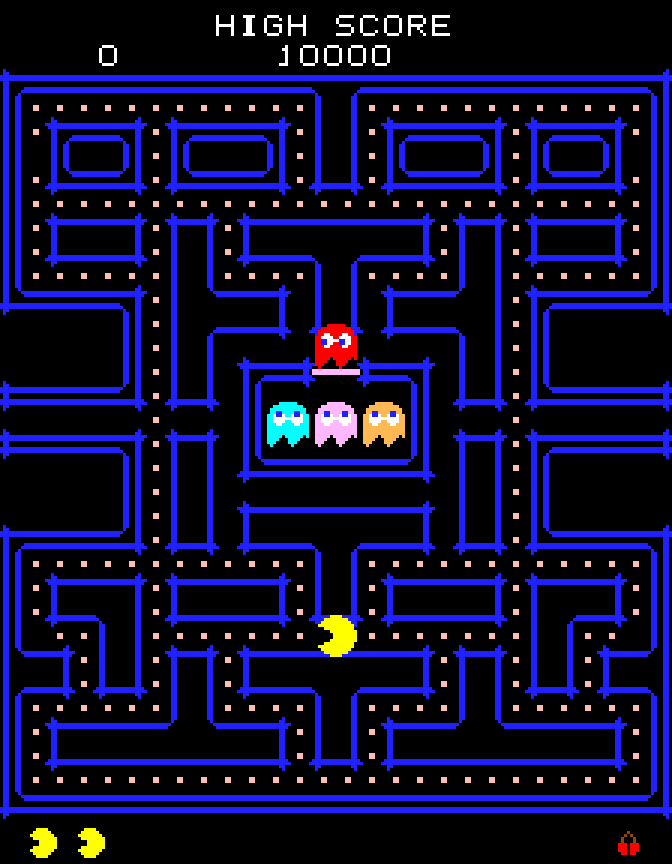
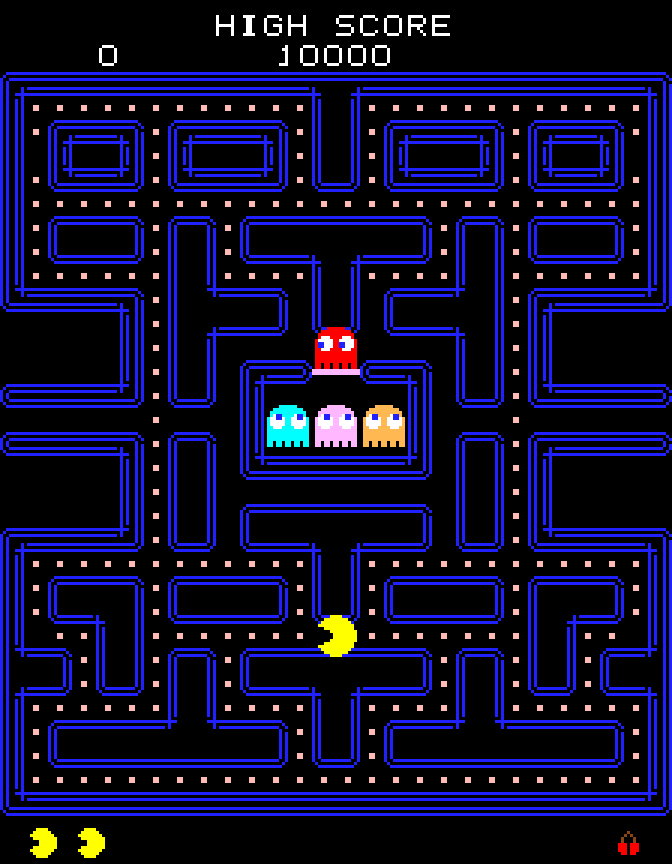
Polish arcade fidelity: rounded double-line walls, bitmap ghost sprites
- Walls: two parallel 1px outlines per boundary (outer radius 3px, inner
  1.5px) with true quarter-circle fillets at every corner, tangent-trimmed
  straight runs and bridged concave corners
- Ghosts: hand-designed 14x14 pixel bitmaps with two-frame skirt wave
  animation, 5x5 oval eyes with directional 2x2 pupils, frightened
  square-eyes + zigzag mouth mode, eyes-only eaten mode
- Update README gameplay screenshot

Changed region(s): [[0.0, 0.0625, 1.0, 0.9688]]

diff --git a/src/render.rs b/src/render.rs
@@ -139,17 +139,23 @@ async fn game_loop(mut game: Game) {
 // ---------------------------------------------------------------------------
 
 struct MazeShape {
-    /// Straight outline runs (already offset into the wall by WALL_OFF).
+    /// Straight outline runs (already offset into the wall; two parallel
+    /// lines per boundary — the classic double-line outline).
     lines: Vec<[Vec2; 2]>,
     /// Rounded corners: (center, radius, start angle, sweep angle).
     arcs: Vec<(Vec2, f32, f32, f32)>,
     door_segs: Vec<Rect>,
 }
 
-/// Offset of the outline centerline from the wall-region boundary, in pixels.
-const WALL_OFF: f32 = 2.0;
-/// Outline stroke thickness.
-const WALL_LINE_W: f32 = 2.0;
+/// Outline stroke thickness (each of the two parallel lines is 1 px wide).
+const WALL_LINE_W: f32 = 1.0;
+
+/// The classic double-line outline: for each wall boundary we draw two
+/// parallel 1 px lines. Each entry is `(centerline offset from the
+/// wall-region boundary in px, corner fillet radius in px)` — the outer
+/// line gets the big, clearly visible quarter-circle corners, the inner
+/// line a smaller one, exactly like the arcade maze.
+const WALL_OUTLINES: [(f32, f32); 2] = [(0.5, 3.0), (2.5, 1.5)];
 
 /// Traces the boundaries of all wall regions and converts them into
 /// continuous rounded outlines (the classic double-line arcade look: every
@@ -158,8 +164,10 @@ const WALL_LINE_W: f32 = 2.0;
 ///
 /// Method: collect the directed boundary edges between wall and non-wall
 /// tiles (oriented so the wall region is always on the left of travel),
-/// chain them into closed loops, then render each loop as an offset polyline
-/// with circular-arc fillets at every 90-degree turn. Diagonally adjacent
+/// chain them into closed loops, then render each loop twice (once per
+/// outline line) as an offset polyline with circular-arc fillets at every
+/// 90-degree turn — convex corners get a true quarter-circle fillet, so
+/// every wall corner reads as rounded like the arcade. Diagonally adjacent
 /// wall tiles share a pinch vertex and their outlines connect smoothly.
 fn build_maze_shape(grid: &[Tile; MAZE_W * MAZE_H]) -> MazeShape {
     let is_wall = |tx: i32, ty: i32| -> bool {
@@ -234,41 +242,74 @@ fn build_maze_shape(grid: &[Tile; MAZE_W * MAZE_H]) -> MazeShape {
         loops.push(lp);
     }
 
-    // Render each loop: offset straight runs + circular fillets at corners.
+    // Render each loop: two offset outlines, straight runs trimmed back
+    // where the corner fillets tangent onto them + circular fillet arcs at
+    // every corner, so lines and arcs join with no gaps or overshoot.
     let px = |v: (i32, i32)| vec2(v.0 as f32 * 8.0, v.1 as f32 * 8.0);
     let wall_normal = |d: (i32, i32)| vec2(d.1 as f32, -(d.0 as f32)); // left of travel
+    let cross = |a: (i32, i32), b: (i32, i32)| a.0 * b.1 - a.1 * b.0;
     let mut lines = Vec::new();
     let mut arcs = Vec::new();
     for lp in &loops {
         let n = lp.len();
-        for (i, &((vx, vy), d)) in lp.iter().enumerate() {
-            let nrm = wall_normal(d);
-            let head = (vx + d.0, vy + d.1);
-            // Straight run along this edge, offset toward the wall side.
-            lines.push([px((vx, vy)) + nrm * WALL_OFF, px(head) + nrm * WALL_OFF]);
-            // Fillet at the head corner if the path turns.
-            let (_, nd) = lp[(i + 1) % n];
-            if nd != d {
-                let n_in = nrm;
-                let n_out = wall_normal(nd);
-                let c = px(head);
-                let center = c + (n_in + n_out) * WALL_OFF;
-                let a0 = f32::atan2(
-                    (c + n_in * WALL_OFF - center).y,
-                    (c + n_in * WALL_OFF - center).x,
-                );
-                let a1 = f32::atan2(
-                    (c + n_out * WALL_OFF - center).y,
-                    (c + n_out * WALL_OFF - center).x,
-                );
-                let mut sweep = a1 - a0;
-                while sweep > std::f32::consts::PI {
-                    sweep -= std::f32::consts::TAU;
+        for &(off, rad) in &WALL_OUTLINES {
+            for (i, &((vx, vy), d)) in lp.iter().enumerate() {
+                let nrm = wall_normal(d);
+                let head = (vx + d.0, vy + d.1);
+                let p0 = px((vx, vy)) + nrm * off;
+                let p1 = px(head) + nrm * off;
+                let (_, pd) = lp[(i + n - 1) % n];
+                let (_, nd) = lp[(i + 1) % n];
+                let turn_in = pd != d;
+                let turn_out = nd != d;
+                // Distance back from a corner where the fillet arc tangent
+                // meets this edge (convex corner: off + rad; concave: the
+                // arc simply bridges the two offset points, radius = off).
+                let trim = |convex: bool| if convex { off + rad } else { (off - rad).max(0.0) };
+                let t_in = if turn_in { trim(cross(pd, d) < 0) } else { 0.0 };
+                let t_out = if turn_out { trim(cross(d, nd) < 0) } else { 0.0 };
+                let dir_f = vec2(d.0 as f32, d.1 as f32);
+                // Straight run along this edge, offset toward the wall side,
+                // trimmed to the fillet tangent points on both ends.
+                if t_in + t_out <= 8.0 {
+                    let start = if turn_in { p0 + dir_f * t_in } else { p0 };
+                    let end = if turn_out { p1 - dir_f * t_out } else { p1 };
+                    lines.push([start, end]);
                 }
-                while sweep < -std::f32::consts::PI {
-                    sweep += std::f32::consts::TAU;
+                // Fillet arc at the head corner if the path turns.
+                if turn_out {
+                    let c = px(head);
+                    let n_in = nrm;
+                    let n_out = wall_normal(nd);
+                    let (center, radius, pin, pout) = if cross(d, nd) < 0 {
+                        // Convex corner: quarter-circle fillet of radius `rad`.
+                        (
+                            c + (n_in + n_out) * (off + rad),
+                            rad,
+                            c + n_in * off + n_out * (off + rad),
+                            c + n_out * off + n_in * (off + rad),
+                        )
+                    } else {
+                        // Concave corner: bridge arc joining the two offset
+                        // points around the inside of the turn.
+                        (
+                            c + (n_in + n_out) * off,
+                            off,
+                            c + n_in * off,
+                            c + n_out * off,
+                        )
+                    };
+                    let a0 = f32::atan2((pin - center).y, (pin - center).x);
+                    let a1 = f32::atan2((pout - center).y, (pout - center).x);
+                    let mut sweep = a1 - a0;
+                    while sweep > std::f32::consts::PI {
+                        sweep -= std::f32::consts::TAU;
+                    }
+                    while sweep < -std::f32::consts::PI {
+                        sweep += std::f32::consts::TAU;
+                    }
+                    arcs.push((center, radius, a0, sweep));
                 }
-                arcs.push((center, WALL_OFF, a0, sweep));
             }
         }
     }
@@ -552,18 +593,71 @@ fn draw_pacman_death(p: &PacmanState) {
 }
 
 // ---------------------------------------------------------------------------
-// Ghosts
+// Ghosts (14x14 pixel bitmap sprites with a two-frame wave skirt, like the
+// arcade ROM sprites)
 // ---------------------------------------------------------------------------
 
+/// Ghost body bitmaps, 14x14 ('B' = body colour, '.' = transparent).
+/// The dome sides drop vertically from a flat rounded top, and the skirt
+/// alternates between two wave frames every ~10 ticks, as in the arcade.
+const GHOST_BODY_A: [&str; 14] = [
+    "....BBBBBB....",
+    "..BBBBBBBBBB..",
+    ".BBBBBBBBBBBB.",
+    ".BBBBBBBBBBBB.",
+    "BBBBBBBBBBBBBB",
+    "BBBBBBBBBBBBBB",
+    "BBBBBBBBBBBBBB",
+    "BBBBBBBBBBBBBB",
+    "BBBBBBBBBBBBBB",
+    "BBBBBBBBBBBBBB",
+    "BBBBBBBBBBBBBB",
+    "BBBBBBBBBBBBBB",
+    "BB.BB.BB.BB.BB",
+    "BB.BB.BB.BB.BB",
+];
+const GHOST_BODY_B: [&str; 14] = [
+    "....BBBBBB....",
+    "..BBBBBBBBBB..",
+    ".BBBBBBBBBBBB.",
+    ".BBBBBBBBBBBB.",
+    "BBBBBBBBBBBBBB",
+    "BBBBBBBBBBBBBB",
+    "BBBBBBBBBBBBBB",
+    "BBBBBBBBBBBBBB",
+    "BBBBBBBBBBBBBB",
+    "BBBBBBBBBBBBBB",
+    "BBBBBBBBBBBBBB",
+    "BBBBBBBBBBBBBB",
+    "BBB.BBBBBB.BBB",
+    "BB..BBBBBB..BB",
+];
+
+/// White of the eye: 5x5 oval ('#' = lit).
+const EYE_OVAL: [&str; 5] = [".###.", "#####", "#####", "#####", ".###."];
+
+/// Draw a bitmap sprite at 1 game pixel per cell, top-left at (x0, y0).
+fn draw_bitmap(rows: &[&str], x0: f32, y0: f32, lit: char, col: Color) {
+    for (r, row) in rows.iter().enumerate() {
+        for (c, p) in row.chars().enumerate() {
+            if p == lit {
+                draw_rectangle(x0 + c as f32, y0 + r as f32, 1.0, 1.0, col);
+            }
+        }
+    }
+}
+
 fn draw_ghost(g: &GhostState, frames: u64) {
-    let x = g.x;
-    let y = g.y;
     let frightened = g.mode == GhostMode::Frightened;
     let eaten = g.mode == GhostMode::Eaten;
 
+    // 14x14 sprite origin, snapped to whole game pixels so it stays crisp.
+    let sx = g.x.round() - 7.0;
+    let sy = g.y.round() - 7.0;
+
     // Eyes only while returning home after being eaten.
     if eaten {
-        draw_eyes(x, y, g.dir);
+        draw_eyes(sx, sy, g.dir);
         return;
     }
 
@@ -574,67 +668,61 @@ fn draw_ghost(g: &GhostState, frames: u64) {
         ghost_color(g.id)
     };
 
-    // Dome body: half circle + straight sides down to the skirt line (14 px wide).
-    draw_circle(x, y - 1.5, 7.0, body_col);
-    draw_rectangle(x - 7.0, y - 1.5, 14.0, 6.5, body_col);
-
-    // Wavy skirt: 4-wave hem, two animation frames.
-    let skirt_y = y + 5.0;
-    let tooth_w = 14.0 / 4.0;
-    let frame = ((frames / 8) % 2) as usize;
-    for i in 0..4 {
-        let tx0 = x - 7.0 + i as f32 * tooth_w;
-        if (i + frame) % 2 == 0 {
-            draw_triangle(
-                vec2(tx0, skirt_y),
-                vec2(tx0 + tooth_w, skirt_y),
-                vec2(tx0 + tooth_w / 2.0, skirt_y + 2.5),
-                body_col,
-            );
-        } else {
-            // notch: black triangle biting up into the skirt
-            draw_triangle(
-                vec2(tx0, skirt_y),
-                vec2(tx0 + tooth_w, skirt_y),
-                vec2(tx0 + tooth_w / 2.0, skirt_y - 2.5),
-                BLACK,
-            );
-        }
-    }
+    // Dome + wavy skirt from the 14x14 bitmap; two-frame wave animation,
+    // flipping every 10 ticks like the original.
+    let frame = if (frames / 10) % 2 == 0 {
+        &GHOST_BODY_A
+    } else {
+        &GHOST_BODY_B
+    };
+    draw_bitmap(frame, sx, sy, 'B', body_col);
 
     if frightened {
-        draw_frightened_face(x, y, flashing);
+        draw_frightened_face(sx, sy, flashing);
     } else {
-        draw_eyes(x, y, g.dir);
+        draw_eyes(sx, sy, g.dir);
     }
 }
 
-fn draw_eyes(x: f32, y: f32, dir: Direction) {
-    let (dx, dy) = match dir {
-        Direction::Up => (0.0, -1.2),
-        Direction::Down => (0.0, 1.2),
-        Direction::Left => (-1.2, 0.0),
-        Direction::Right => (1.2, 0.0),
+/// The big arcade eyes: two 5x5 white ovals (sprite cols 1-5 / 8-12, rows
+/// 3-7) with 2x2 dark-blue pupils that shift within the eye toward the
+/// looking direction. Coordinates are relative to the 14x14 sprite whose
+/// top-left is at (sx, sy).
+fn draw_eyes(sx: f32, sy: f32, dir: Direction) {
+    // Pupil offset (eye-local px, top-left of the 2x2 pupil) by direction.
+    let (pdx, pdy) = match dir {
+        Direction::Up => (2.0, 0.0),
+        Direction::Down => (2.0, 3.0),
+        Direction::Left => (0.0, 2.0),
+        Direction::Right => (3.0, 2.0),
     };
-    for ex in [x - 2.8, x + 2.8] {
-        draw_circle(ex, y - 2.5, 2.4, EYE_WHITE);
-        // 2x2 px pupils, offset by looking direction
-        draw_rectangle(ex + dx - 1.0, y - 2.5 + dy - 1.0, 2.0, 2.0, PUPIL_BLUE);
+    for ex in [1.0f32, 8.0] {
+        for (r, row) in EYE_OVAL.iter().enumerate() {
+            for (c, p) in row.chars().enumerate() {
+                if p == '#' {
+                    draw_rectangle(sx + ex + c as f32, sy + 3.0 + r as f32, 1.0, 1.0, EYE_WHITE);
+                }
+            }
+        }
+        draw_rectangle(sx + ex + pdx, sy + 3.0 + pdy, 2.0, 2.0, PUPIL_BLUE);
     }
 }
 
-fn draw_frightened_face(x: f32, y: f32, flashing: bool) {
+fn draw_frightened_face(sx: f32, sy: f32, flashing: bool) {
     let face = if flashing { FRUIT_RED } else { EYE_WHITE };
-    // eyes: two small squares
-    draw_rectangle(x - 4.2, y - 3.5, 2.4, 2.4, face);
-    draw_rectangle(x + 1.8, y - 3.5, 2.4, 2.4, face);
-    // wavy mouth: zigzag segments
-    let y0 = y + 2.0;
-    for (i, sx) in [x - 5.0, x - 2.5, x, x + 2.5].iter().enumerate() {
-        let sx = *sx;
-        let up = i % 2 == 0;
-        let dy = if up { -1.5 } else { 1.5 };
-        draw_line(sx, y0 - dy, sx + 2.5, y0 + dy, 1.0, face);
+    // Square-ish eyes: 2x2 px each (sprite cols 3-4 / 9-10, rows 4-5).
+    for ex in [3.0f32, 9.0] {
+        draw_rectangle(sx + ex, sy + 4.0, 2.0, 2.0, face);
+    }
+    // Wavy mouth: 1 px zigzag across sprite rows 9-10.
+    for i in 0..5 {
+        let x0 = sx + 2.0 + i as f32 * 2.0;
+        let (y0, y1) = if i % 2 == 0 {
+            (sy + 10.0, sy + 9.0)
+        } else {
+            (sy + 9.0, sy + 10.0)
+        };
+        draw_line(x0, y0, x0 + 2.0, y1, 1.0, face);
     }
 }
 
